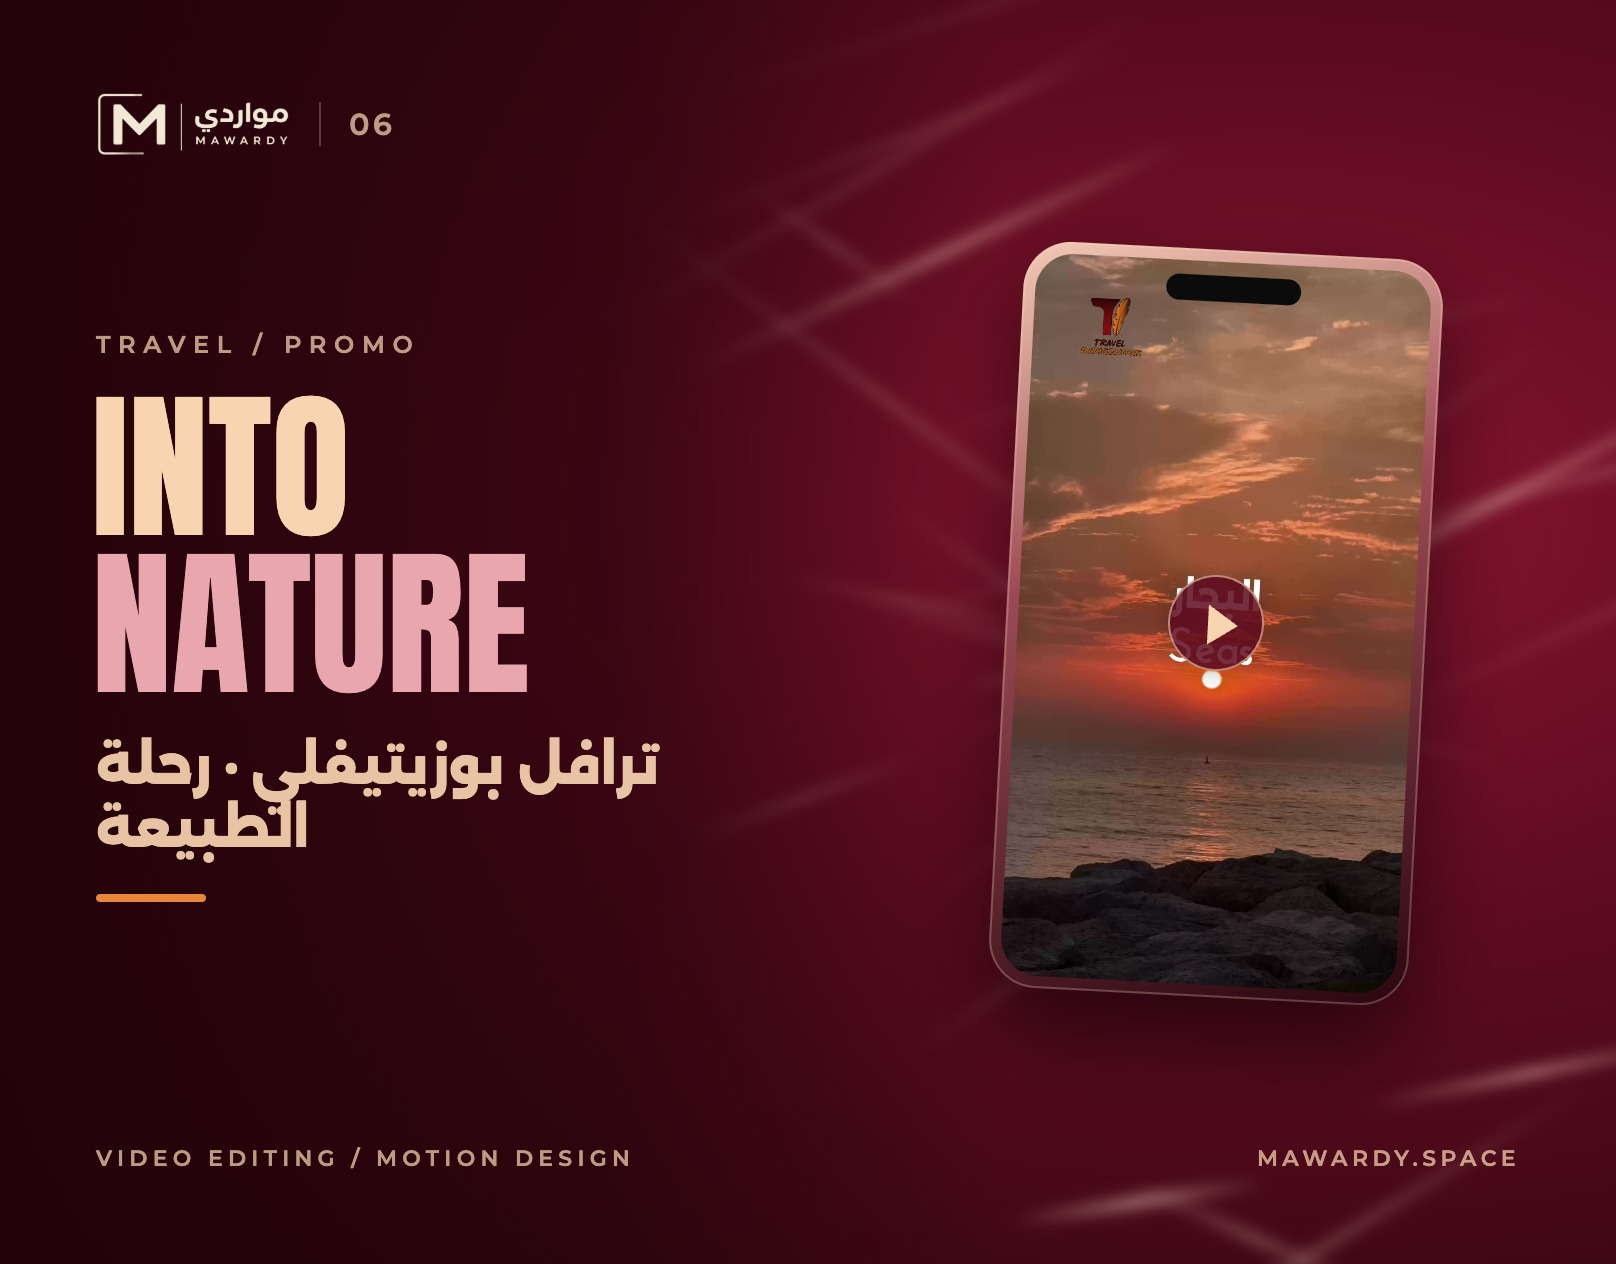
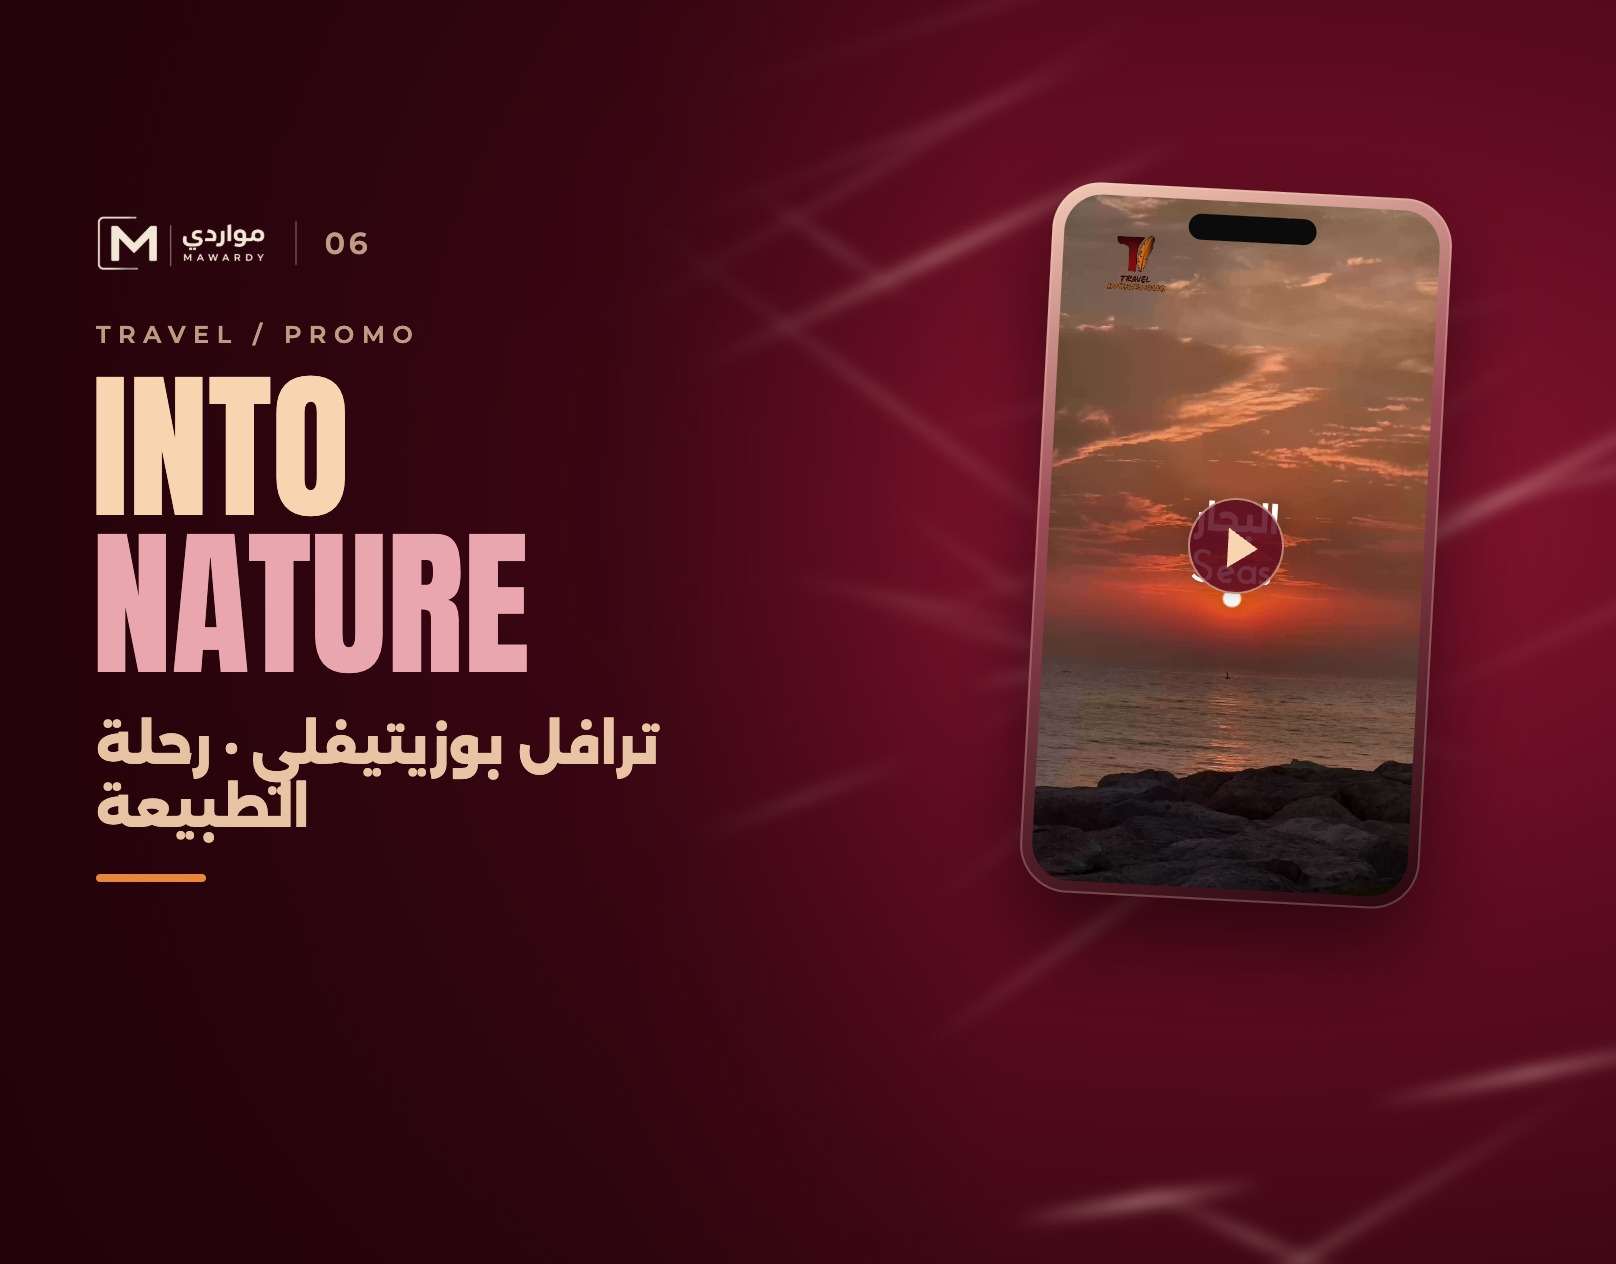
Keep Behance cover content inside the visible safe area
Behance overlays its controls on the top row and the title bar on the
bottom quarter, so the logo and footer were hidden on phones.

diff --git a/tools/behance-cover/cover.html b/tools/behance-cover/cover.html
@@ -12,21 +12,21 @@ html,body{width:1616px;height:1264px;overflow:hidden;background:var(--ink)}
 .streaks i{position:absolute;height:6px;border-radius:6px;filter:blur(7px);opacity:.55;
  background:linear-gradient(90deg,transparent,rgba(255,215,200,.9),transparent);transform-origin:center}
 .vign{position:absolute;inset:0;background:linear-gradient(90deg,rgba(34,3,10,.92) 0%,rgba(34,3,10,.6) 38%,rgba(34,3,10,0) 62%)}
-.brand{position:absolute;left:96px;top:92px;display:flex;align-items:center;gap:28px}
-.brand img{height:64px}
+.brand{position:absolute;left:96px;top:215px;display:flex;align-items:center;gap:28px}
+.brand img{height:56px}
 .brand .sep{width:2px;height:44px;background:var(--line)}
 .brand .num{font:600 30px Montserrat;letter-spacing:.12em;color:var(--dim)}
-.topic{position:absolute;left:96px;top:330px;font:600 24px Montserrat;letter-spacing:.32em;color:var(--dim);text-transform:uppercase}
-.title{position:absolute;left:92px;top:390px;width:760px;font-family:Anton,sans-serif;text-transform:uppercase;line-height:.98;letter-spacing:.01em}
+.topic{position:absolute;left:96px;top:320px;font:600 24px Montserrat;letter-spacing:.32em;color:var(--dim);text-transform:uppercase}
+.title{position:absolute;left:92px;top:370px;width:760px;font-family:Anton,sans-serif;text-transform:uppercase;line-height:.98;letter-spacing:.01em}
 .title .l1,.title .l2{white-space:nowrap}
 .title .l1{display:inline-block;font-size:var(--s1,150px);color:var(--cream)}
 .title .l2{display:inline-block;font-size:var(--s2,150px);color:#e9a6ae}
 .ar{position:absolute;left:96px;width:760px;font:800 52px Alexandria,sans-serif;direction:rtl;text-align:left;color:var(--cream);opacity:.92}
 .bar{position:absolute;left:96px;width:110px;height:8px;border-radius:8px;background:#E8873A}
-.foot{position:absolute;left:96px;bottom:92px;font:600 22px Montserrat;letter-spacing:.24em;color:var(--dim)}
-.site{position:absolute;right:96px;bottom:92px;font:600 22px Montserrat;letter-spacing:.2em;color:var(--dim)}
+.foot{display:none;position:absolute;left:96px;bottom:92px;font:600 22px Montserrat;letter-spacing:.24em;color:var(--dim)}
+.site{display:none;position:absolute;right:96px;bottom:92px;font:600 22px Montserrat;letter-spacing:.2em;color:var(--dim)}
 /* phones */
-.phones{position:absolute;right:70px;top:190px;width:760px;height:1000px}
+.phones{position:absolute;right:70px;top:170px;width:760px;height:1000px}
 .ph{position:absolute;width:var(--w,400px);aspect-ratio:9/16;border-radius:48px;padding:12px;background:linear-gradient(160deg,#f3c9b5,#9b4a55 40%,#2a0610);
  box-shadow:0 40px 90px rgba(0,0,0,.55),0 0 0 2px rgba(255,220,200,.25) inset}
 .ph .scr{width:100%;height:100%;border-radius:38px;overflow:hidden;position:relative;background:#111}
@@ -68,9 +68,9 @@ for(let i=0;i<26;i++){const e=document.createElement('i');const w=200+rnd()*520;
  e.style.transform=`rotate(${ang}deg)`;e.style.opacity=(.18+rnd()*.5).toFixed(2);e.style.height=(3+rnd()*9)+'px';st.append(e)}
 // phones
 const P=document.getElementById('phones');const imgs=q.imgs;
-const layouts={1:[{x:220,y:60,w:420,r:3,z:3}],
- 2:[{x:40,y:110,w:360,r:-6,z:2},{x:330,y:20,w:420,r:4,z:3}],
- 3:[{x:0,y:150,w:320,r:-8,z:1},{x:430,y:150,w:320,r:8,z:1},{x:190,y:20,w:400,r:0,z:3}]};
+const layouts={1:[{x:250,y:20,w:400,r:3,z:3}],
+ 2:[{x:60,y:80,w:350,r:-6,z:2},{x:340,y:10,w:400,r:4,z:3}],
+ 3:[{x:10,y:110,w:300,r:-8,z:1},{x:440,y:110,w:300,r:8,z:1},{x:190,y:10,w:390,r:0,z:3}]};
 const L=layouts[Math.min(imgs.length,3)];
 imgs.slice(0,3).forEach((src,i)=>{const o=L[i];const d=document.createElement('div');d.className='ph';d.style.setProperty('--w',o.w+'px');
  d.style.left=o.x+'px';d.style.top=o.y+'px';d.style.transform=`rotate(${o.r}deg)`;d.style.zIndex=o.z;
